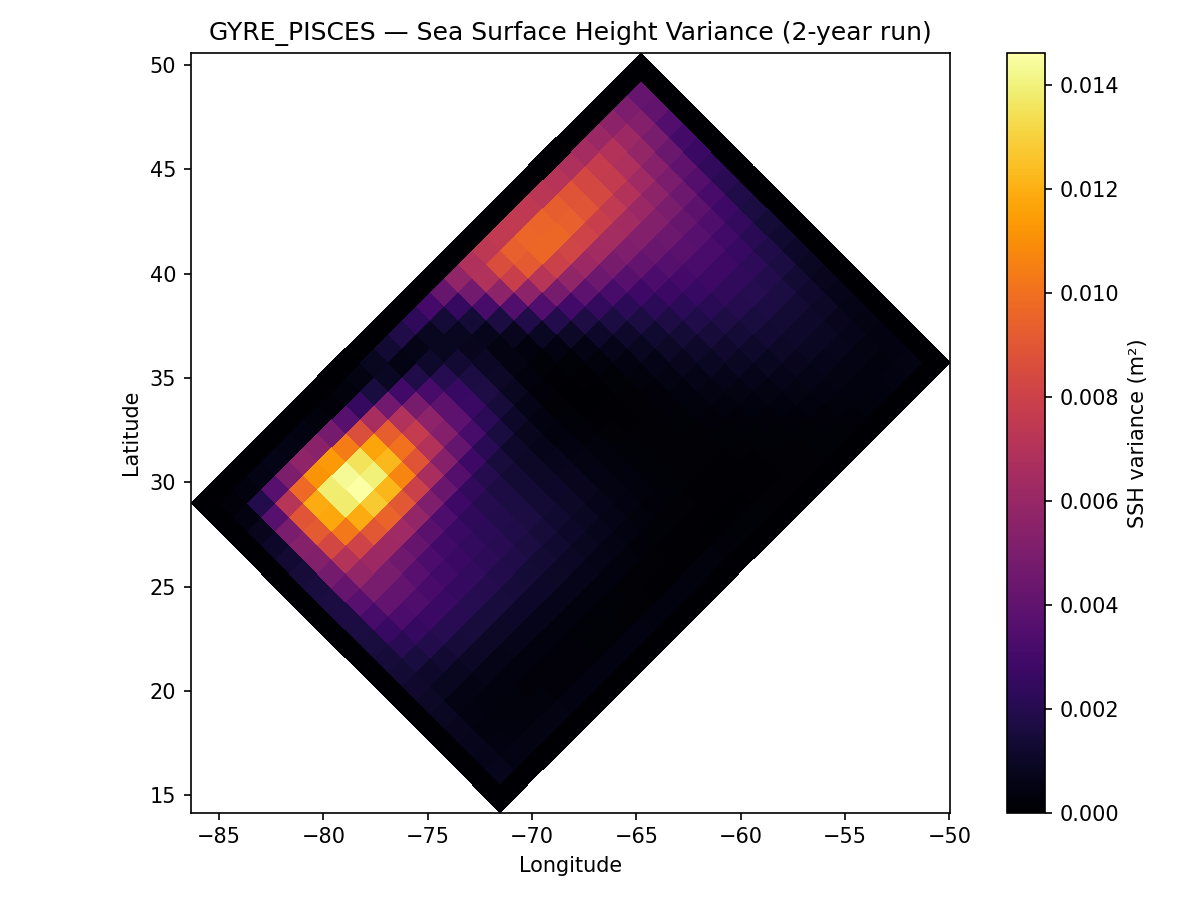
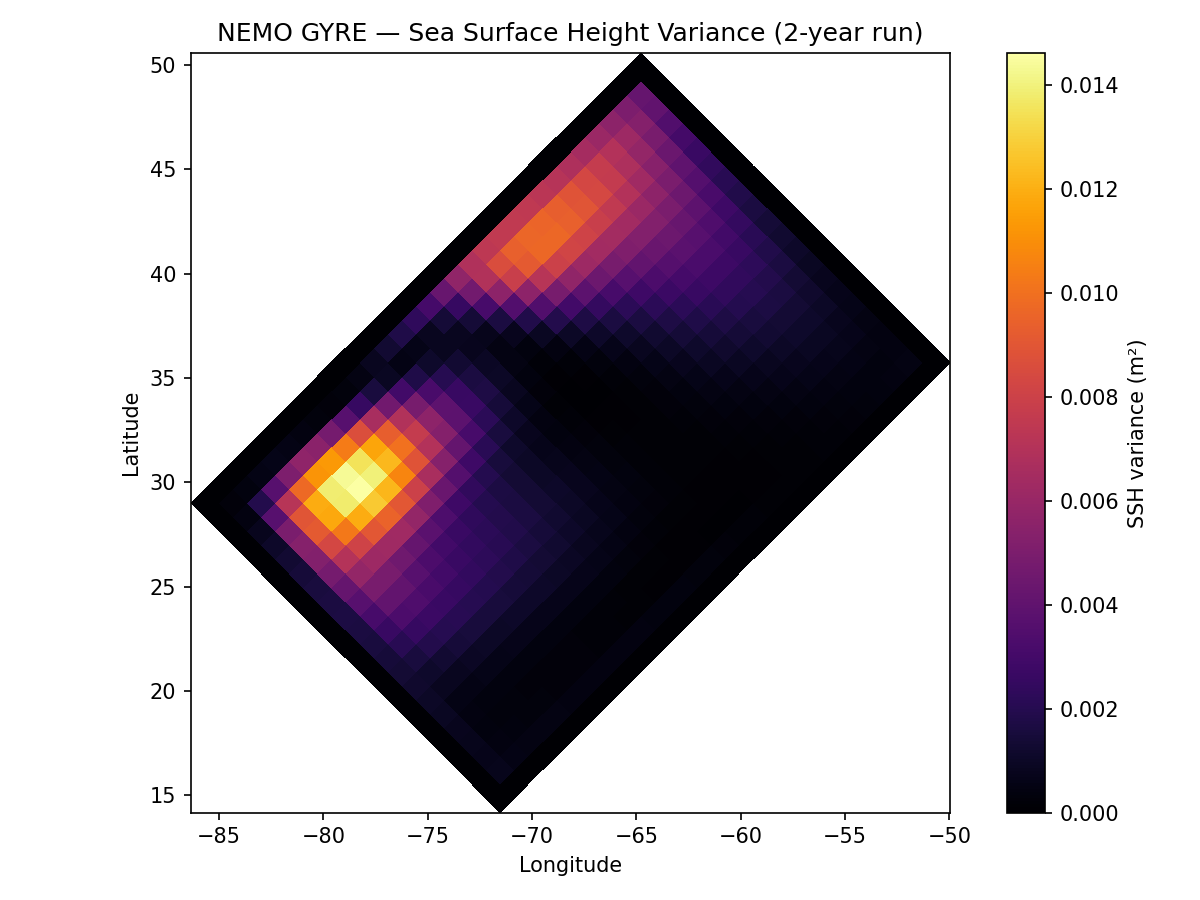
Drop PISCES, rename config to GYRE, fix naming throughout
- Remove key_top from CPP keys (no biogeochemistry)
- Remove PISCES namelist patching (no longer needed)
- Rename custom config from MY_GYRE to GYRE
- Update README, analysis script to say GYRE not GYRE_PISCES

Changed region(s): [[0.3392, 0.0311, 0.7708, 0.0622], [0.185, 0.0, 0.3083, 0.0622]]

diff --git a/analysis/ssh_variance.py b/analysis/ssh_variance.py
@@ -1,4 +1,4 @@
-"""Plot SSH variance from GYRE_PISCES output."""
+"""Plot SSH variance from NEMO GYRE output."""
 
 import sys
 from pathlib import Path
@@ -22,7 +22,7 @@ pcm = ax.pcolormesh(
 fig.colorbar(pcm, ax=ax, label="SSH variance (m²)")
 ax.set_xlabel("Longitude")
 ax.set_ylabel("Latitude")
-ax.set_title("GYRE_PISCES — Sea Surface Height Variance (2-year run)")
+ax.set_title("NEMO GYRE — Sea Surface Height Variance (2-year run)")
 ax.set_aspect("equal")
 fig.tight_layout()
 

diff --git a/README.md b/README.md
@@ -1,8 +1,7 @@
-# NEMO GYRE_PISCES
+# NEMO GYRE
 
 Dockerized [NEMO](https://www.nemo-ocean.eu/) ocean model running the
-GYRE_PISCES configuration — an idealized double-gyre basin on a beta-plane
-with simplified PISCES biogeochemistry.
+GYRE configuration — an idealized double-gyre basin on a beta-plane.
 
 ## Prerequisites
 
@@ -39,7 +38,7 @@ Analysis generates `output/ssh_variance.png`.
 - **Resolution**: ~1° (32×22 grid, 31 vertical levels)
 - **Run length**: 2 years (4320 timesteps, dt=4h)
 - **Output**: IOIPSL (no XIOS dependency)
-- **Biogeochemistry**: PISCES simplified (P2Z), external forcing disabled
+- **Physics only**: no biogeochemistry (PISCES/TOP disabled)
 
 ## Structure
 
